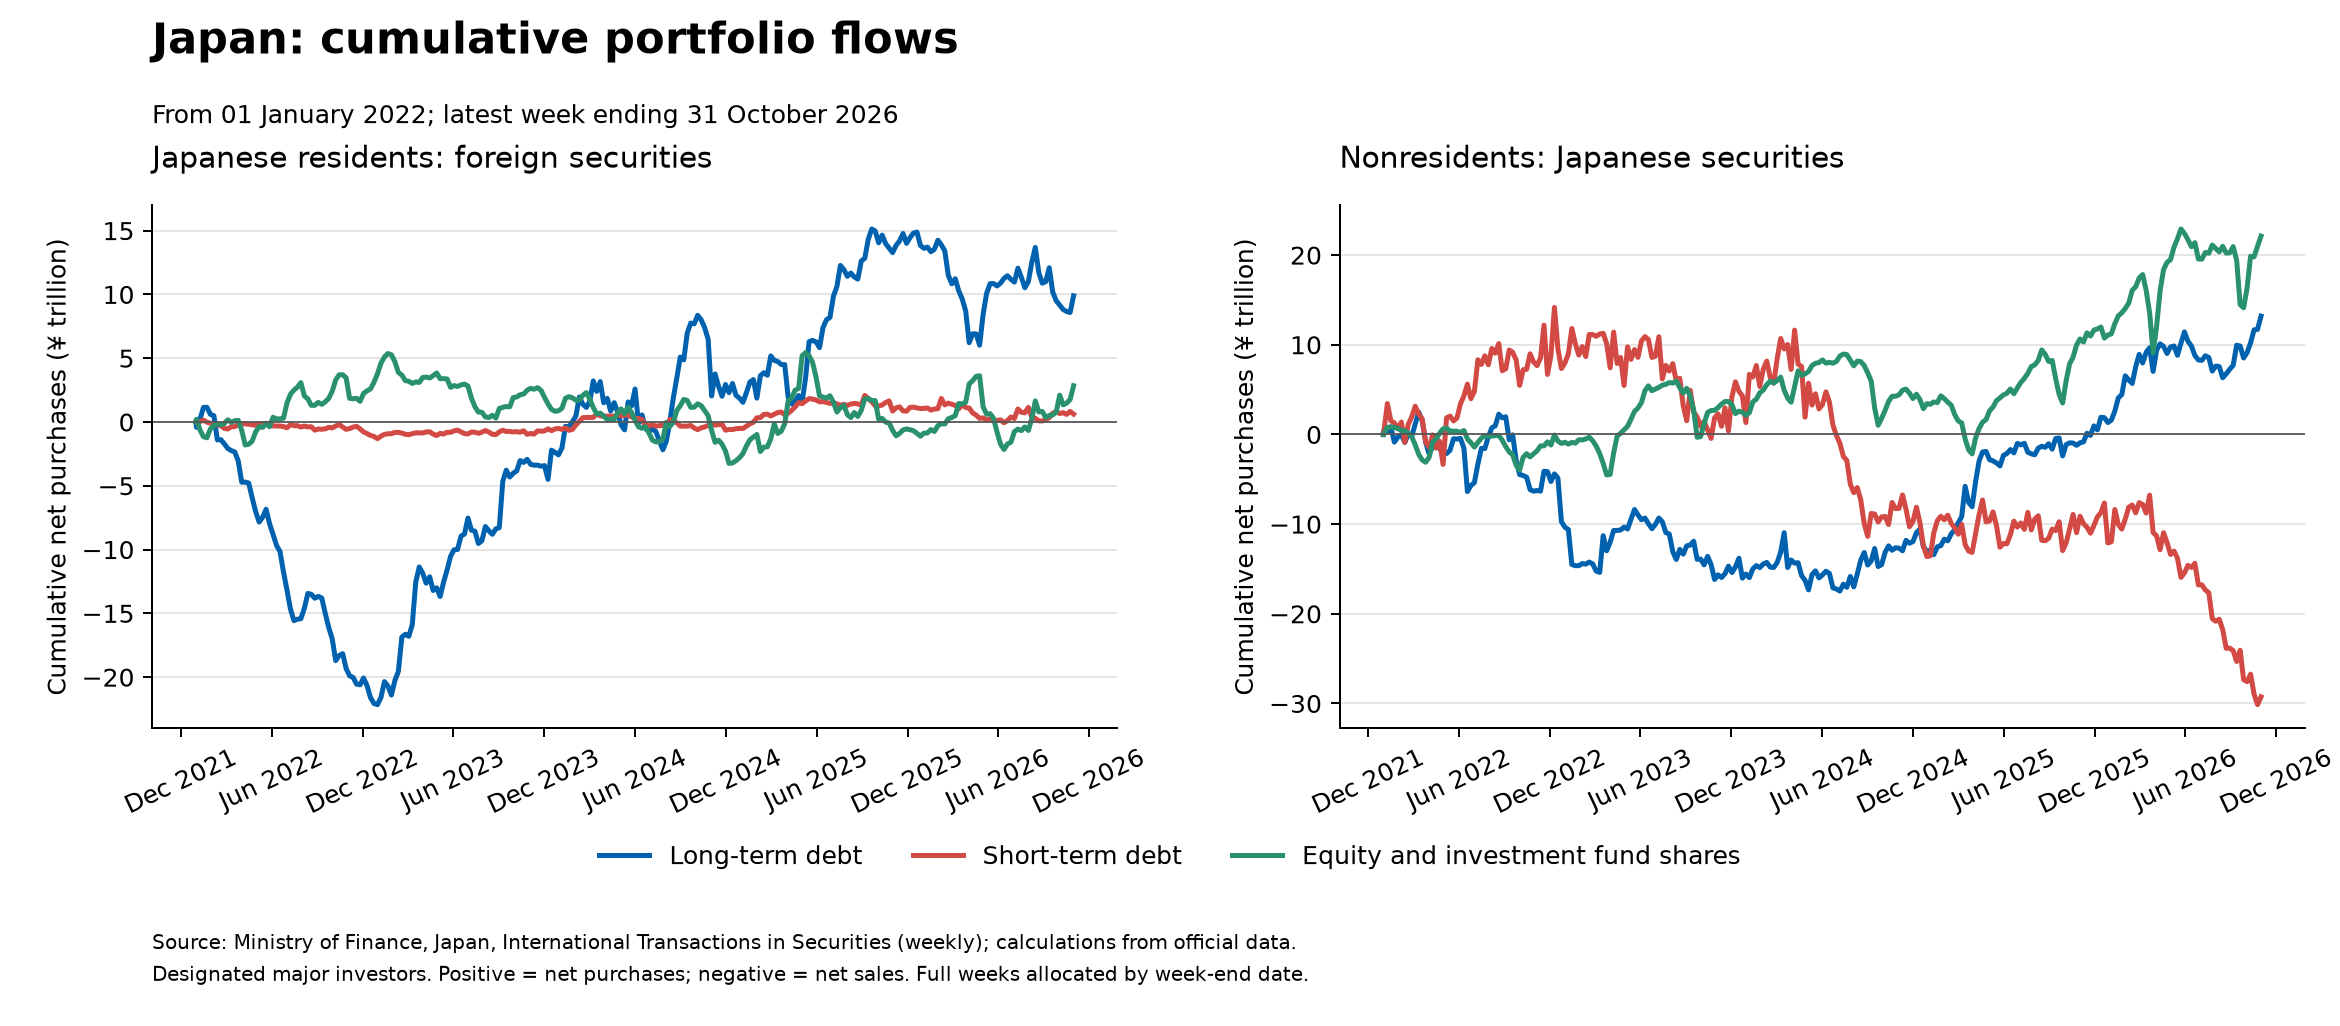
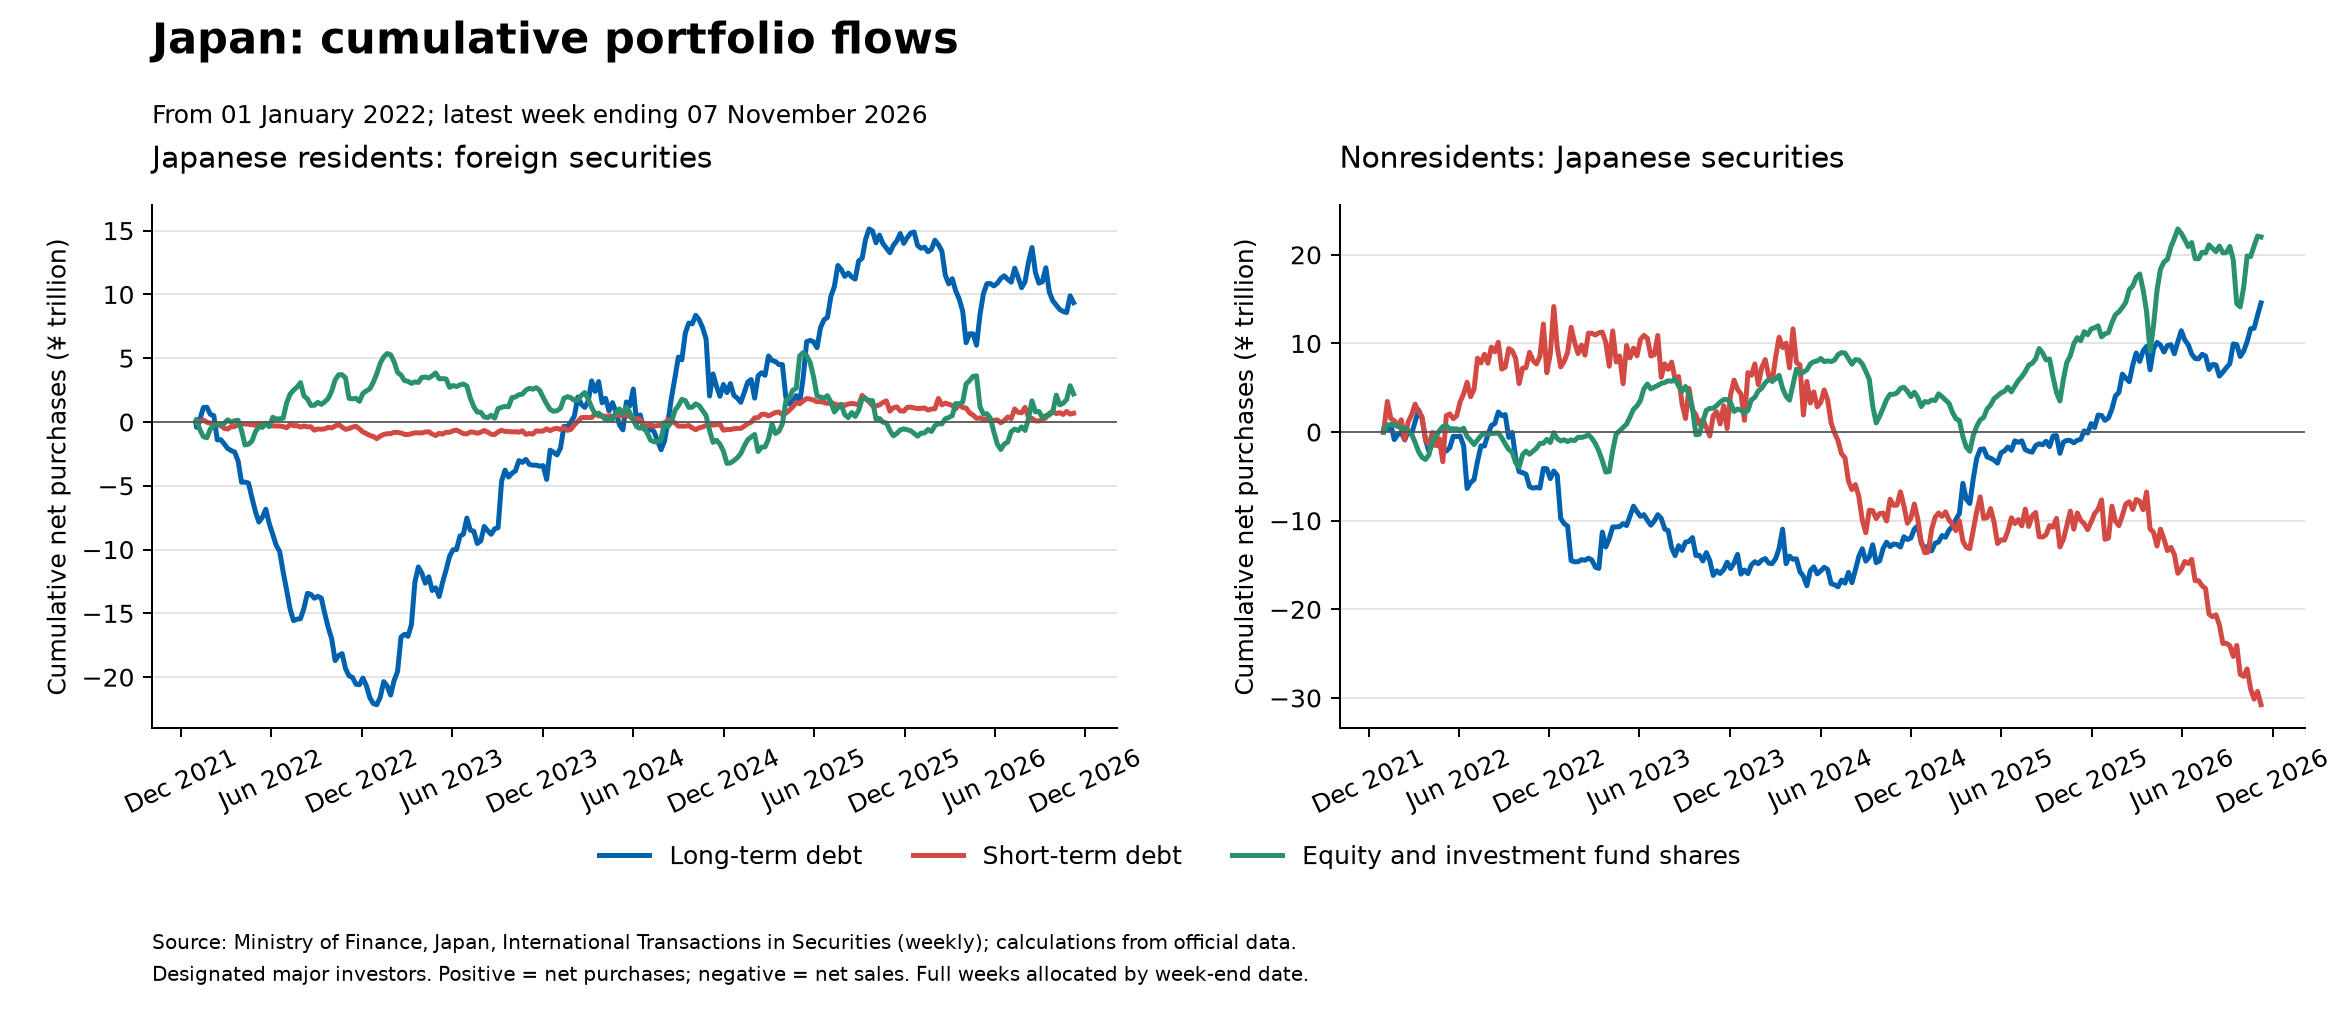
Refresh approved Japan portfolio charts and display status

diff --git a/public/reports/japan-portfolio/index.html b/public/reports/japan-portfolio/index.html
@@ -1,4 +1,4 @@
 <!doctype html><html lang="en"><head><meta charset="utf-8"><meta name="viewport" content="width=device-width,initial-scale=1"><title>Japan portfolio flows — Daily Market Monitor</title>
 <style>:root{color-scheme:light dark;--bg:#f4f6f8;--fg:#243746;--card:white;--border:#dce4ea;--muted:#596b78;--accent:#183f5c}@media(prefers-color-scheme:dark){:root{--bg:#020617;--fg:#e2e8f0;--card:#0f172a;--border:#475569;--muted:#94a3b8;--accent:#c7d2fe}}*{box-sizing:border-box}body{margin:0;background:var(--bg);color:var(--fg);font:15px/1.55 system-ui,sans-serif}main{max-width:1500px;margin:auto;padding:30px 28px}h1{font-size:29px;color:var(--accent);margin:0 0 8px}h2{font-size:21px;color:var(--accent)}.intro,.source{color:var(--muted)}.card{background:var(--card);border:1px solid var(--border);border-radius:12px;padding:24px;margin:24px 0}.notice{border-left:4px solid #b65330;padding:14px 20px}.source{font-size:12px;overflow-wrap:anywhere}img{width:100%;height:auto;display:block;background:white;border-radius:6px}a{color:var(--accent)}@media(max-width:650px){main{padding:18px 10px}.card{padding:15px 10px}h1{font-size:24px}}</style></head><body><main><p><a href="../../">← Daily Market Monitor</a></p><h1>Japan portfolio flows</h1><p class="intro">Cross-border investment and domestic JGB purchases · yen trillion</p>
-<div class="card notice"><strong>complete / live sources checked</strong><p>Live source check attempted: 2026-11-09T14:33:13.983367+00:00. Observation dates and input vintage are shown per chart. “Unchanged” means values match the previous successful source check; it does not imply a new observation. Failures retain the last complete component and show a warning. Click a chart for its full-resolution PNG.</p></div>
-<section class="card"><h2>Cross-border portfolio flows since 2022</h2><p>Cumulative net purchases from January 2022, yen trillion. Residents: foreign equities +2.84, foreign long-term debt +9.89, foreign short-term debt +0.62. Nonresidents: Japanese equities +22.11, Japanese long-term debt +13.19, Japanese short-term debt -29.26. Positive values mean net purchases; negative values mean net sales.</p><p class="source">MOF weekly securities transactions · Latest observation: 2026-10-31 · Status: revised · New periods: 1 · Prior history revised: True · Last successful check: 2026-11-09T14:33:13.983367+00:00 · Final Update  November  6 , 2026</p><p></p><a href="portfolio_flows.png"><img src="portfolio_flows.png" alt="Cross-border portfolio flows since 2022" loading="lazy"></a></section><section class="card"><h2>Cross-border portfolio flows rebased to 2026</h2><p>Cumulative net purchases from January 2026, yen trillion. Residents: foreign equities +3.95, foreign long-term debt -3.95, foreign short-term debt -0.43. Nonresidents: Japanese equities +11.03, Japanese long-term debt +11.87, Japanese short-term debt -17.16. Positive values mean net purchases; negative values mean net sales.</p><p class="source">MOF weekly securities transactions · Latest observation: 2026-10-31 · Status: revised · New periods: 1 · Prior history revised: True · Last successful check: 2026-11-09T14:33:13.983367+00:00 · Final Update  November  6 , 2026</p><p></p><a href="portfolio_flows_recent.png"><img src="portfolio_flows_recent.png" alt="Cross-border portfolio flows rebased to 2026" loading="lazy"></a></section><section class="card"><h2>Who is buying coupon-bearing JGBs?</h2><p>Rolling five calendar month net purchases, yen trillion; displayed since 2022. Latest all coupon-bearing totals — City banks &amp; long-term credit banks: +0.11; Foreign investors: +5.53; Life &amp; non-life insurers: +2.42; Others (JSDA category): -25.75; Regional banks: +2.15; Trust banks: +7.77. Super-long-, long- and medium-term maturity groups are shown separately. Nominal/face value; excludes Treasury bills and discount bonds. Others (JSDA category) uses the six directly reported Others purchase/sale series, not overall minus the displayed sectors. This mixed category includes government auction allocations, BoJ operations and other institutions. It is not pure BoJ activity or aggregate private investor demand. Net purchases are purchases minus sales from the investor/counterparty perspective.</p><p class="source">JSDA via Haver Analytics · Latest observation: 2026-09-30 · Status: unchanged · New periods: 0 · Prior history revised: False · Last successful check: 2026-11-09T14:33:13.983367+00:00 · Haver snapshot: 2026-11-07T15:13:46+00:00 · Source commit: 7c007c6ac95885819e54f798bbce2cafb6d2670d</p><p></p><a href="jsda/rolling_jgb_purchases.png"><img src="jsda/rolling_jgb_purchases.png" alt="Who is buying coupon-bearing JGBs?" loading="lazy"></a></section><section class="card"><h2>Interpretation and updates</h2><p>Domestic JGB buying and foreign-security sales do not identify the same investors and cannot by themselves establish repatriation. MOF long-term debt includes securities beyond JGBs. Cumulative flows measure transactions, not holdings or valuation gains. MOF full weeks are allocated by week-end date; JSDA uses five calendar months, never five nonmissing observations.</p><p>The daily dashboard refreshes at 13:00 and 22:00 UTC. Portfolio charts refresh Fridays at 10:00 America/New_York (GitHub scheduling is best effort). Every check uses official MOF data and one commit-pinned Haver snapshot; Haver is an upstream snapshot, not a direct vendor refresh. Last successful observation dates remain visible if a component fails.</p></section></main></body></html>
+<div class="card notice"><strong>complete / live sources checked</strong><p>Live source check attempted: 2026-11-13T15:11:19.636982+00:00. Observation dates and input vintage are shown per chart. “Unchanged” means values match the previous successful source check; it does not imply a new observation. Failures retain the last complete component and show a warning. Click a chart for its full-resolution PNG.</p></div>
+<section class="card"><h2>Cross-border portfolio flows since 2022</h2><p>Cumulative net purchases from January 2022, yen trillion. Residents: foreign equities +2.20, foreign long-term debt +9.35, foreign short-term debt +0.68. Nonresidents: Japanese equities +22.01, Japanese long-term debt +14.56, Japanese short-term debt -30.76. Positive values mean net purchases; negative values mean net sales.</p><p class="source">MOF weekly securities transactions · Latest observation: 2026-11-07 · Status: new · New periods: 1 · Prior history revised: False · Last successful check: 2026-11-13T15:11:19.636982+00:00 · Final Update  November  12 , 2026</p><p></p><a href="portfolio_flows.png"><img src="portfolio_flows.png" alt="Cross-border portfolio flows since 2022" loading="lazy"></a></section><section class="card"><h2>Cross-border portfolio flows rebased to 2026</h2><p>Cumulative net purchases from January 2026, yen trillion. Residents: foreign equities +3.31, foreign long-term debt -4.48, foreign short-term debt -0.37. Nonresidents: Japanese equities +10.92, Japanese long-term debt +13.24, Japanese short-term debt -18.66. Positive values mean net purchases; negative values mean net sales.</p><p class="source">MOF weekly securities transactions · Latest observation: 2026-11-07 · Status: new · New periods: 1 · Prior history revised: False · Last successful check: 2026-11-13T15:11:19.636982+00:00 · Final Update  November  12 , 2026</p><p></p><a href="portfolio_flows_recent.png"><img src="portfolio_flows_recent.png" alt="Cross-border portfolio flows rebased to 2026" loading="lazy"></a></section><section class="card"><h2>Who is buying coupon-bearing JGBs?</h2><p>Rolling five calendar month net purchases, yen trillion; displayed since 2022. Latest all coupon-bearing totals — City banks &amp; long-term credit banks: +0.11; Foreign investors: +5.53; Life &amp; non-life insurers: +2.42; Others (JSDA category): -25.75; Regional banks: +2.15; Trust banks: +7.77. Super-long-, long- and medium-term maturity groups are shown separately. Nominal/face value; excludes Treasury bills and discount bonds. Others (JSDA category) uses the six directly reported Others purchase/sale series, not overall minus the displayed sectors. This mixed category includes government auction allocations, BoJ operations and other institutions. It is not pure BoJ activity or aggregate private investor demand. Net purchases are purchases minus sales from the investor/counterparty perspective.</p><p class="source">JSDA via Haver Analytics · Latest observation: 2026-09-30 · Status: unchanged · New periods: 0 · Prior history revised: False · Last successful check: 2026-11-13T15:11:19.636982+00:00 · Haver snapshot: 2026-11-12T15:13:39+00:00 · Source commit: 0eaf09eaef6de1fa7fe5cda2d28fe8f5a3e67898</p><p></p><a href="jsda/rolling_jgb_purchases.png"><img src="jsda/rolling_jgb_purchases.png" alt="Who is buying coupon-bearing JGBs?" loading="lazy"></a></section><section class="card"><h2>Interpretation and updates</h2><p>Domestic JGB buying and foreign-security sales do not identify the same investors and cannot by themselves establish repatriation. MOF long-term debt includes securities beyond JGBs. Cumulative flows measure transactions, not holdings or valuation gains. MOF full weeks are allocated by week-end date; JSDA uses five calendar months, never five nonmissing observations.</p><p>The daily dashboard refreshes at 13:00 and 22:00 UTC. Portfolio charts refresh Fridays at 10:00 America/New_York (GitHub scheduling is best effort). Every check uses official MOF data and one commit-pinned Haver snapshot; Haver is an upstream snapshot, not a direct vendor refresh. Last successful observation dates remain visible if a component fails.</p></section></main></body></html>
